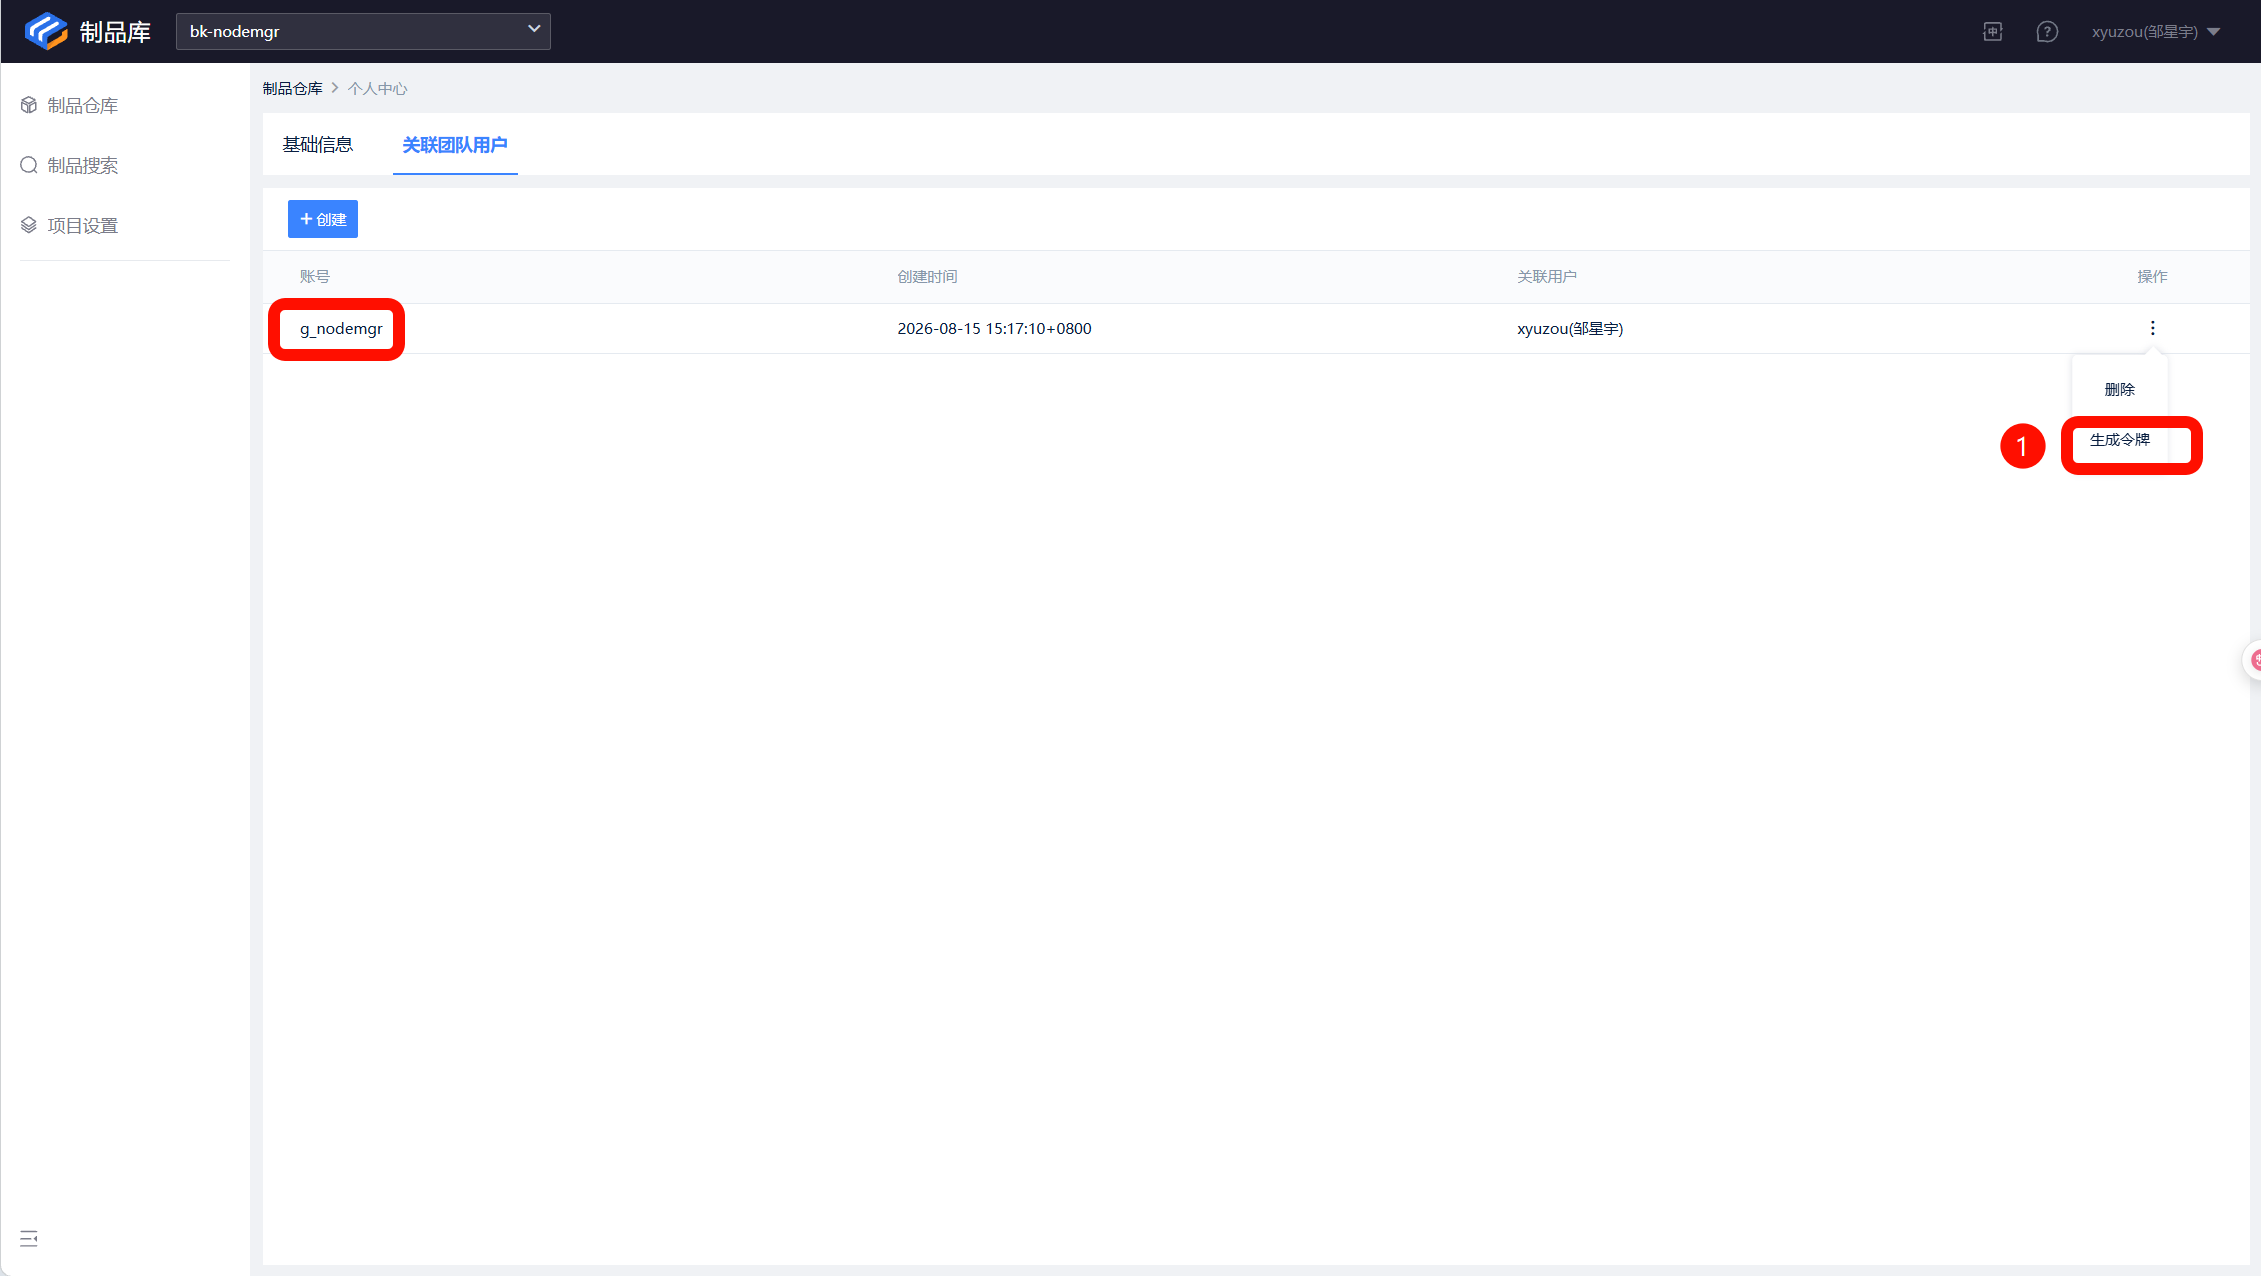
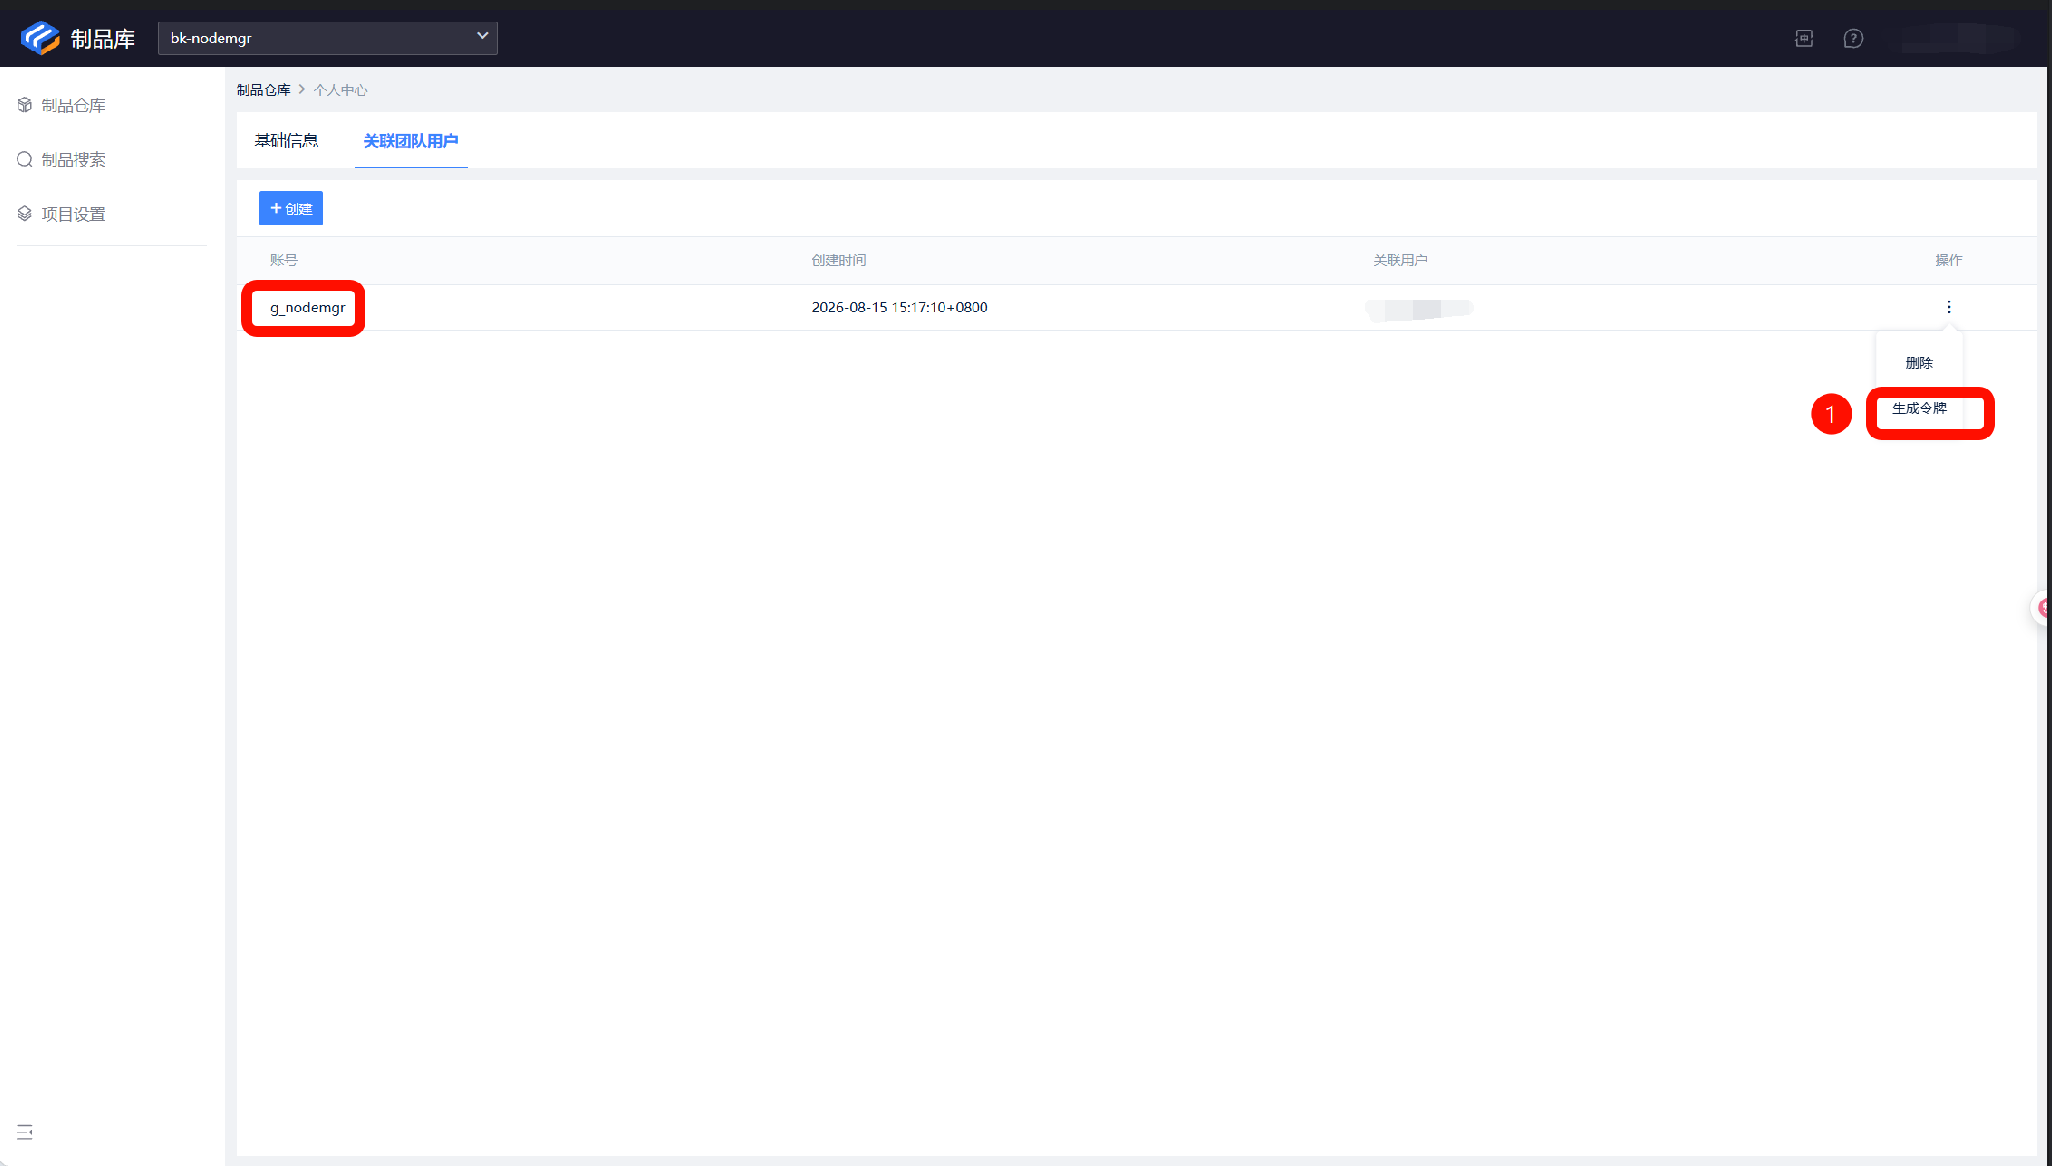
docs: clean documentation references and refresh BKRepo screenshot --issue=#3537 (#3538)

diff --git a/docs/thirdparty/bk-iam/v4/README.md b/docs/thirdparty/bk-iam/v4/README.md
@@ -25,4 +25,3 @@
 | IAM 开发接入指南                                                                         | 前置准备、模型注册、资源回调、直接鉴权、申请 URL                                                                                                                                                   |
 | 接入场景指南：callback 参考实现                                                          | [调用身份](callback.md#调用方向与身份)、[分发与响应](callback.md#请求分发与响应)、[列表查询](callback.md#list_instance)、[详情查询](callback.md#fetch_instance_info)                               |
 | 接入场景与模型设计补充                                                                   | [资源粒度](model.md#按权限粒度选择资源)、[创建类操作](model.md#创建类操作)、[Action 命名](model.md#action-命名)、[角色粒度](model.md#从产品交互中抽出的约束)、[回调适用范围](callback.md#适用范围) |
-| [IAM APIGateway 文档入口](https://bkapigw.woa.com/docs/api-docs/gateway/bkiam?stage=dev) | 核实目标环境 API Schema；此链接是原文的开发环境入口，不是项目 endpoint 默认值                                                                                                                      |

diff --git a/.agents/skills/code-review/references/file-type-mapping.md b/.agents/skills/code-review/references/file-type-mapping.md
@@ -43,7 +43,7 @@
 
 ```bash
 # 示例：审查 DAO 层文件
-Read file_path="/data/home/xyuzou/items/bk-nodemgr/docs/developer/README.md"
+Read file_path="/data/home/ubuntu/items/bk-nodemgr/docs/developer/README.md"
 ```
 
 ### 3. 应用审查重点
@@ -103,7 +103,7 @@ Read file_path="/data/home/xyuzou/items/bk-nodemgr/docs/developer/README.md"
 
 ### 步骤 5：更新 SKILL.md
 
-同时更新 `/data/home/xyuzou/items/bk-nodemgr/.agents/skills/code-review/SKILL.md` 文件中的映射表（第 52-64 行），保持两处同步。
+同时更新 `.agents/skills/code-review/SKILL.md` 文件中的映射表（第 52-64 行），保持两处同步。
 
 ## 最佳实践
 
